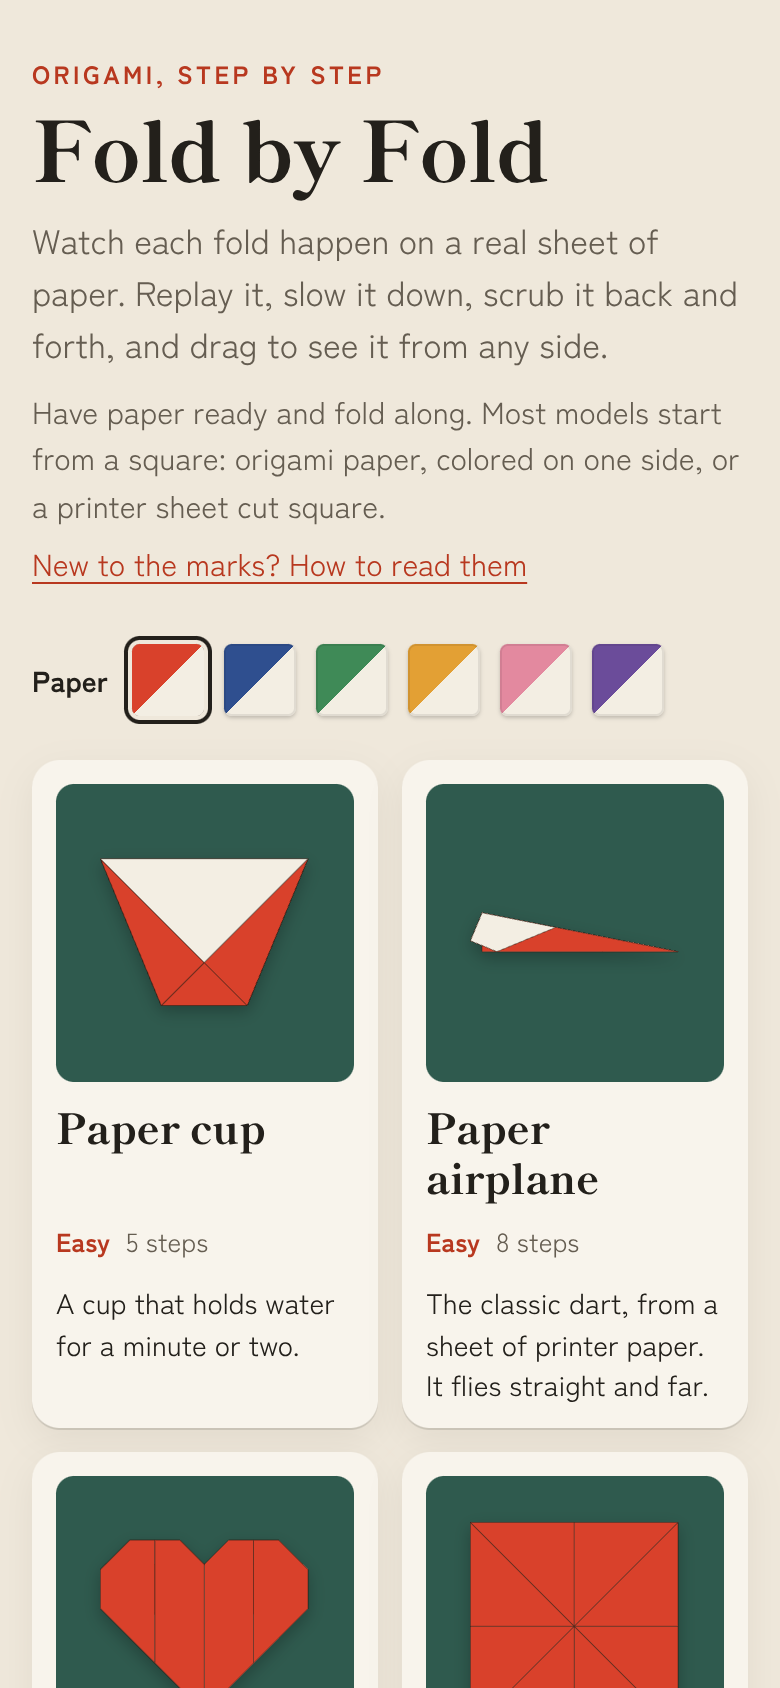
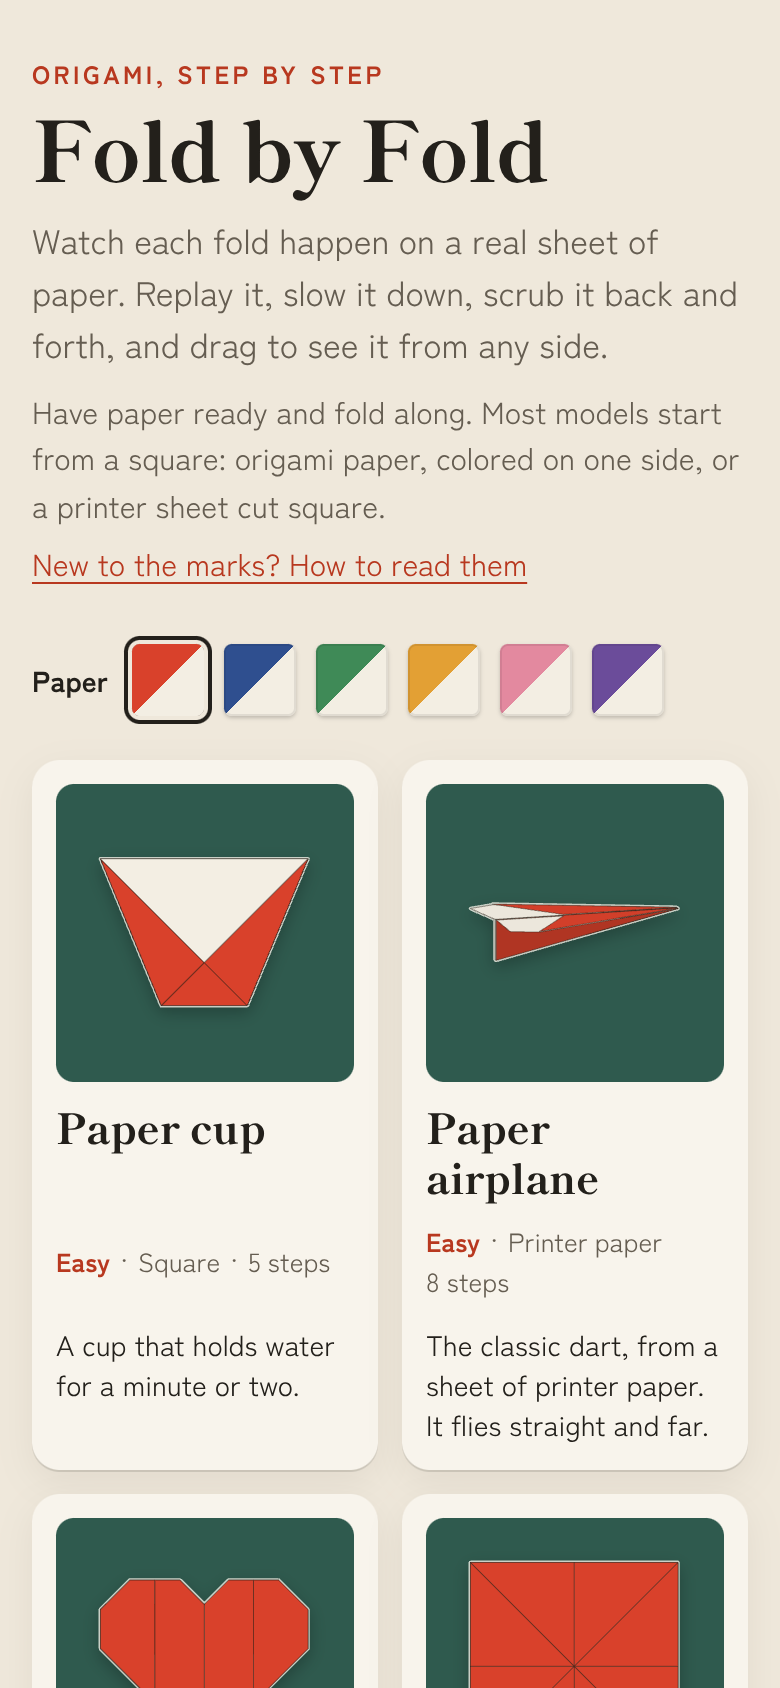
Redraw the README's picture of the gallery
The README's picture of the gallery showed the paper airplane's card as a
flat sliver, with no light edge round the paper and no paper named under
the models' names. It's redrawn by the screenshot script from the page as
it is now, and its description says what the cards show. The two pictures
of the player came out the same as before.

Claude-Session: https://claude.ai/code/session_01PQbLNUWMG1ez4Wz6qxCK4y

diff --git a/README.md b/README.md
@@ -5,7 +5,7 @@
 **Origami instructions that fold in front of you.** A printed diagram shows a fold as a dashed line and an arrow, and it's up to you to work out which way the paper goes. Here, each step is a real sheet of paper folding in 3D. Watch it, replay it, slow it down, stop it halfway, and drag to look at it from the side or underneath.
 
 <p align="center">
-  <img src="docs/phone-home.png" alt="The gallery: the name Fold by Fold, a line saying to have paper ready and fold along with a link to how to read the marks, a row of paper colours to pick from, and cards for a paper cup and a paper airplane, each with a picture of the finished model" width="250">
+  <img src="docs/phone-home.png" alt="The gallery: the name Fold by Fold, a line saying to have paper ready and fold along with a link to how to read the marks, a row of paper colours to pick from, and cards for a paper cup and a paper airplane, each with a picture of the finished model, the airplane seen at an angle with its wings out, and under each name how hard it is, the paper to use and how many steps: Easy, Square, 5 steps; Easy, Printer paper, 8 steps" width="250">
   &nbsp;
   <img src="docs/phone-marks.png" alt="Step 10 of 23 of the crane, a petal fold. A red square base lies on a green cutting mat, marked the way a printed diagram would be: a dashed valley line across it, two dash-dot mountain lines from the bottom point, and a long arrow lifting the bottom corner up past the top. Below: Petal fold, the words for the step, a slider and a Play button" width="250">
   &nbsp;
